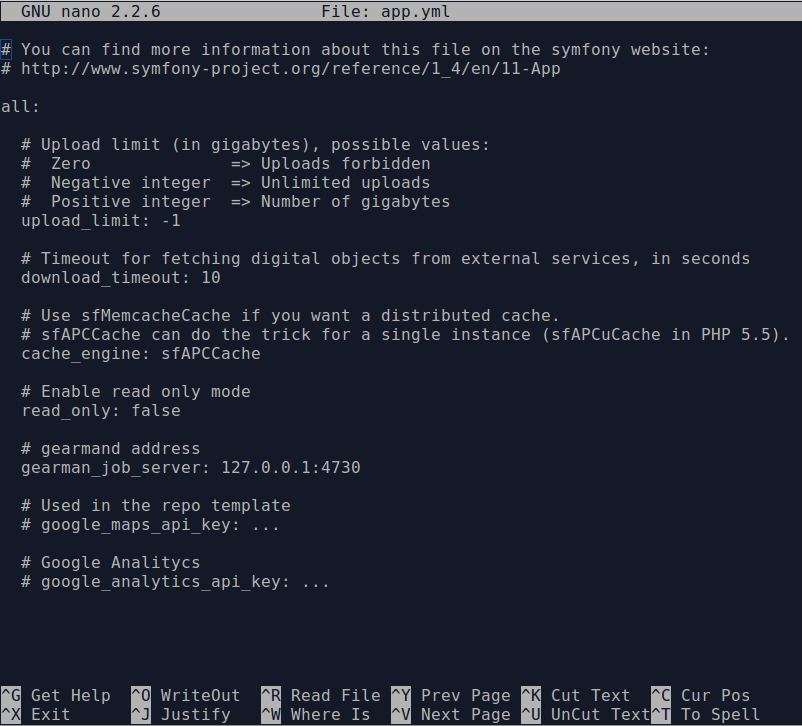
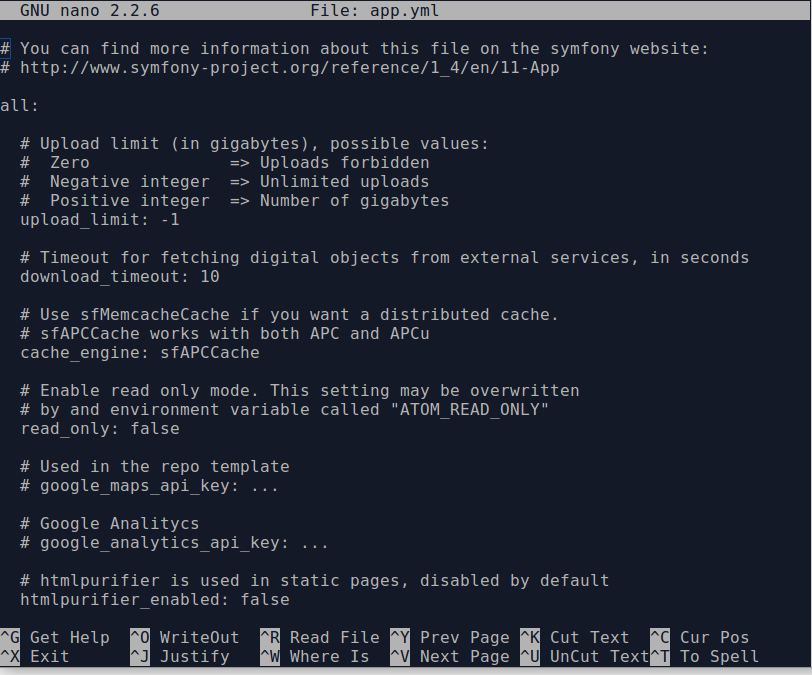
update app.yml settings

Changed region(s): [[0.0, 0.0, 1.0, 1.0], [0.0, 0.6844, 0.7481, 0.9022], [0.8105, 0.3422, 0.9352, 0.4044]]

diff --git a/admin-manual/customization/config-files.rst b/admin-manual/customization/config-files.rst
@@ -34,6 +34,8 @@ Important files:
 config/apps.yml
 ---------------
 
+.. _htmlpurifier: http://htmlpurifier.org/
+
 This is the primary file where AtoM-specific settings that cannot be managed
 via the :term:`user interface` are maintained. This file includes settings
 such as:
@@ -44,12 +46,15 @@ such as:
   seconds) - default value is 10s
 * Which cache engine you want to use (can use Memcached for a distributed
   cache, for example) - default is sfAPCCache
-* Set IP address where the gearman job server is found (for asynchronous
-  jobs)
+* Enable read-only mode, if you want to remove the login button and prevent
+  users from logging into the application.
 * Set a Google Maps API key (for use in the Archival institution template,
   to generate dynamic Google Maps)
 * Set a Google Analytics API key, for basic installation-wide analytics via
   Google
+* Enable htmlpurifier_ - limits HTML on static pages to a white-list of approved
+  elements and attributes, to prevent XSS - see: :ref:`security-static-pages`
+  for more information.
 
 .. image:: images/app-yml-settings.*
    :align: center
